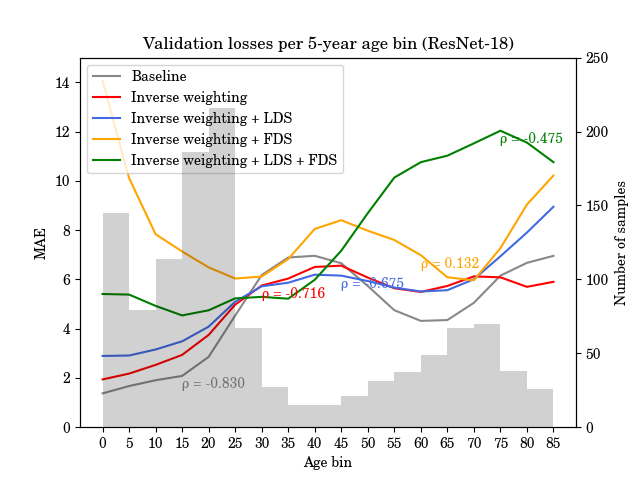
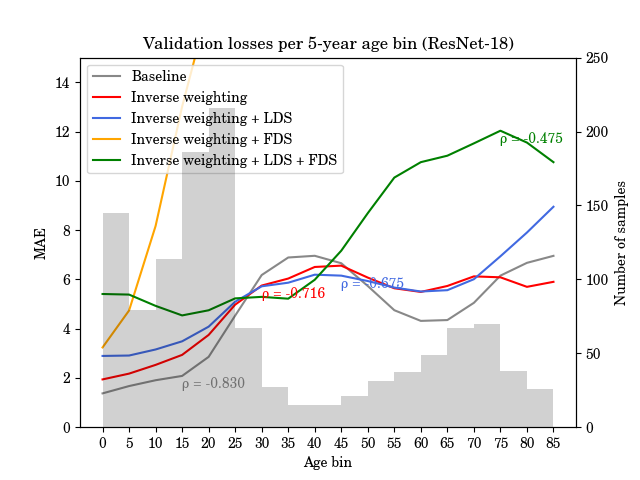
Fix issue with FDS (#5)
* wip

* wip

* wip: plotting code

* wip

* switch to logging.info

* wip

* cleanup

* delete code to save fds features for now

diff --git a/age_prediction/train.py b/age_prediction/train.py
@@ -2,6 +2,7 @@ import argparse
 from datetime import datetime
 import glob
 import json
+import logging
 import os
 import random
 import re
@@ -27,15 +28,7 @@ SPLITS_DIR = os.path.join(ROOT_DIR, "folderlist")
 START_TIME = datetime.now().strftime("%m/%d/%Y, %H:%M:%S")
 LOG_FILE = ''
 
-def log(message):
-    if LOG_FILE == '':
-        print(message)
-        return
-
-    os.makedirs(os.path.dirname(LOG_FILE), exist_ok=True)
-
-    with open(LOG_FILE, 'a+') as log_file:
-        log_file.write(f"{message}\n")
+print = logging.info
 
 def parse_options():
     parser = argparse.ArgumentParser()
@@ -93,10 +86,13 @@ def parse_options():
         os.remove(LOG_FILE)
     except FileNotFoundError:
         pass
+    os.makedirs(os.path.dirname(LOG_FILE), exist_ok=True)
+    logging.basicConfig(level=logging.DEBUG, filename=LOG_FILE, filemode="a+",
+                        format="%(asctime)-15s %(levelname)-8s %(message)s")
 
     for arg in vars(args):
-        log(f"{arg}: {getattr(args, arg)}")
-    log('='*20)
+        print(f"{arg}: {getattr(args, arg)}")
+    print('='*20)
     return args
 
 def load_samples(split_fnames, bin_width=1, min_bin_count=10, max_samples=None):
@@ -134,12 +130,12 @@ def load_samples(split_fnames, bin_width=1, min_bin_count=10, max_samples=None):
     return combined_df
 
 def resample(df, mode, undersamp_limit, oversamp_limit):
-    log("Resampling training data")
+    print("Resampling training data")
 
     bins = sorted(set(df['agebin']))
     bin_counts = {bin: sum(df['agebin'] == bin) for bin in bins}
     bin_ratios = {bin: count / df.shape[0] for bin, count in bin_counts.items()}
-    log(f"Bin counts: {bin_counts}")
+    print(f"Bin counts: {bin_counts}")
 
     if mode == 'none':
         pass
@@ -183,7 +179,7 @@ def resample(df, mode, undersamp_limit, oversamp_limit):
     else:
         raise Exception(f"Invalid sampling mode: {mode}")
 
-    log(f"Number of images in final training dataset: {df.shape[0]}")
+    print(f"Number of images in final training dataset: {df.shape[0]}")
     return df
 
 def setup_model(arch, device, checkpoint_file=None, fds=None):
@@ -226,11 +222,12 @@ def train(model, arch, optimizer, train_loader, device, epoch):
         if arch == 'sfcn':
             images = images.unsqueeze(1)
         if model.uses_fds:
-            age_preds, batch_encodings = model(images, targets=ages, epoch=epoch)
+            age_bins = torch.floor(ages)
+            age_preds, batch_encodings, _ = model(images, targets=age_bins, epoch=epoch)
             encodings.extend(batch_encodings.detach().cpu().numpy())
-            targets.extend(ages.cpu().numpy())
+            targets.extend(age_bins.cpu().numpy())
         else:
-            age_preds = model(images)
+            age_preds, _ = model(images)
         age_preds = age_preds.view(-1)
         loss = weighted_l1_loss(age_preds, ages, weights)
         loss.backward()
@@ -238,10 +235,10 @@ def train(model, arch, optimizer, train_loader, device, epoch):
 
         losses.append(loss.item())
         if batch_idx % 10 == 0:
-            log(f"Batch {batch_idx} loss {loss} mean loss {np.mean(losses)}")
+            print(f"Batch {batch_idx} loss {loss} mean loss {np.mean(losses)}")
         
     if model.uses_fds:
-        encodings, targets = torch.from_numpy(np.vstack(encodings)).cuda(), torch.from_numpy(np.hstack(targets)).cuda()
+        encodings, targets = torch.from_numpy(np.vstack(encodings)).to(device), torch.from_numpy(np.hstack(targets)).to(device)
         model.fds.update_last_epoch_stats(epoch)
         model.fds.update_running_stats(encodings, targets, epoch)
     
@@ -263,7 +260,8 @@ def validate(model, arch, val_loader, device):
             images, ages = images.to(device), ages.to(device)
             if arch == 'sfcn':
                 images = images.unsqueeze(1)
-            age_preds = model(images).view(-1)
+            age_preds, _ = model(images)
+            age_preds = age_preds.view(-1)
             loss = F.l1_loss(age_preds, ages, reduction='mean')
 
             losses.append(loss.item())
@@ -278,7 +276,7 @@ def main():
 
     opts = parse_options()
 
-    log(f"Starting at {START_TIME}")
+    print(f"Starting at {START_TIME}")
 
     checkpoint_dir = os.path.join(ROOT_DIR, "checkpoints", opts.eval or opts.job_id)
     results_dir = os.path.join(ROOT_DIR, "results", opts.job_id)
@@ -286,7 +284,7 @@ def main():
     os.makedirs(checkpoint_dir, exist_ok=True)
     os.makedirs(results_dir, exist_ok=True)
 
-    log("Setting up dataset")
+    print("Setting up dataset")
 
     split_fnames = glob.glob(f"{SPLITS_DIR}/nfold_imglist_all_nfold_*.list")
     assert len(split_fnames) == 5
@@ -303,10 +301,10 @@ def main():
 
     if opts.print_bin_counts:
         with pd.option_context('display.max_rows', None, 'display.max_columns', None):
-            log(df['agebin'].value_counts())
-            log(_train_df['agebin'].value_counts())
-            log(train_df['agebin'].value_counts())
-            log(val_df['agebin'].value_counts())
+            print(df['agebin'].value_counts())
+            print(_train_df['agebin'].value_counts())
+            print(train_df['agebin'].value_counts())
+            print(val_df['agebin'].value_counts())
         sys.exit(0)
 
     train_dataset = AgePredictionDataset(train_df, reweight=opts.reweight, lds=opts.lds, lds_kernel=opts.lds_kernel, lds_ks=opts.lds_ks, lds_sigma=opts.lds_sigma)
@@ -324,7 +322,7 @@ def main():
         cfg['val_counts'] = json.loads(val_df['agebin'].value_counts().to_json())
         json.dump(cfg, f, sort_keys=True, indent=4)
 
-    log("Setting up model")
+    print("Setting up model")
 
     device = torch.device('cpu' if opts.cpu else 'cuda')
     fds = None
@@ -346,7 +344,7 @@ def main():
     ## Training and evaluation
 
     if opts.eval is None:
-        log("Starting training process")
+        print("Starting training process")
 
         best_epoch = None
         best_val_loss = np.inf
@@ -357,11 +355,11 @@ def main():
             torch.save(model.state_dict(), f"{checkpoint_dir}/best_model.pth")
 
         for epoch in range(opts.n_epochs):
-            log(f"Epoch {epoch}/{opts.n_epochs}")
+            print(f"Epoch {epoch}/{opts.n_epochs}")
             train_loss = train(model, opts.arch, optimizer, train_loader, device, epoch)
-            log(f"Mean training loss: {train_loss}")
+            print(f"Mean training loss: {train_loss}")
             val_loss, _ = validate(model, opts.arch, val_loader, device)
-            log(f"Mean validation loss: {val_loss}")
+            print(f"Mean validation loss: {val_loss}")
             scheduler.step()
 
             train_losses.append(train_loss)
@@ -374,9 +372,9 @@ def main():
                 best_epoch = epoch
                 best_val_loss = val_loss
         
-        log(f"Best model had validation loss of {best_val_loss}, occurred at epoch {best_epoch}")
+        print(f"Best model had validation loss of {best_val_loss}, occurred at epoch {best_epoch}")
     
-    log("Evaluating best model on val dataset")
+    print("Evaluating best model on val dataset")
    
     checkpoint = torch.load(f"{checkpoint_dir}/best_model.pth", map_location=device)
     model.load_state_dict(checkpoint)
@@ -385,7 +383,7 @@ def main():
     
     ## Save results so we can plot them later
 
-    log("Saving results")
+    print("Saving results")
     
     if opts.eval is None:
         np.savetxt(f"{results_dir}/train_losses_over_time.txt", train_losses)

diff --git a/age_prediction/plot_results.py b/age_prediction/plot_results.py
@@ -51,6 +51,14 @@ def load_results():
         results['val_preds'] = val_preds
         results['config'] = cfg
         all_results[job_desc] = results
+
+        # FDS feature results
+        if os.path.exists(f"{RESULTS_DIR}/{job_id}/train_df.csv"):
+            results['train_df'] = pd.read_csv(f"{RESULTS_DIR}/{job_id}/train_df.csv")
+            results['train_features_before_smoothing'] = pd.read_csv(f"{RESULTS_DIR}/{job_id}/train_features_before_smoothing.csv")
+            results['train_features_after_smoothing'] = pd.read_csv(f"{RESULTS_DIR}/{job_id}/train_features_after_smoothing.csv")
+            results['val_df'] = pd.read_csv(f"{RESULTS_DIR}/{job_id}/val_df.csv")
+            results['val_features'] = pd.read_csv(f"{RESULTS_DIR}/{job_id}/val_features.csv")
     
     return all_results
 
@@ -208,6 +216,37 @@ def main():
         plt.ylabel("Number of samples")
         plt.savefig(os.path.join(FIGURES_DIR, f"bin_counts_{dataset}.png"))
         plt.clf()
+
+    ## Plot the mean of each feature dim for FDS jobs
+    for results in all_results.values():
+        job_id = results['config']['job_id']
+
+        if 'train_df' in results:
+            train_features_before_smoothing = results['train_features_before_smoothing']
+            train_features_after_smoothing = results['train_features_after_smoothing']
+            val_features = results['val_features']
+            train_df = results['train_df']
+            val_df = results['val_df']
+
+            for dim in range(20):
+                colname = f'feat{dim}'
+                bins = np.arange(18)
+                display_bins = [5*bin for bin in bins]
+                featvals1 = train_features_before_smoothing[colname]
+                y1 = [np.mean(featvals1[(train_df['age'] // 5) == bin]) for bin in bins]
+                featvals2 = train_features_after_smoothing[colname]
+                y2 = [np.mean(featvals2[(train_df['age'] // 5) == bin]) for bin in bins]
+                featvals3 = val_features[colname]
+                y3 = [np.mean(featvals3[(val_df['age'] // 5) == bin]) for bin in bins]
+
+                plt.plot(display_bins, y1, label='train, before smoothing')
+                plt.plot(display_bins, y2, label='train, after smoothing')
+                plt.plot(display_bins, y3, label='validation')
+                plt.title(f"Mean values for feature dim = {dim} per bin")
+                plt.xlabel("Age bin")
+                plt.ylabel("Mean value")
+                plt.savefig(os.path.join(FIGURES_DIR, f"mean_vals_{colname}_{job_id}.png"))
+                plt.clf()
 
     print("Done")
 

diff --git a/age_prediction/fds.py b/age_prediction/fds.py
@@ -49,7 +49,8 @@ class FDS(nn.Module):
             kernel_window = list(map(laplace, np.arange(-half_ks, half_ks + 1))) / sum(map(laplace, np.arange(-half_ks, half_ks + 1)))
 
         print(f'Using FDS: [{kernel.upper()}] ({ks}/{sigma})')
-        return torch.tensor(kernel_window, dtype=torch.float64).cuda()
+        res = torch.tensor(kernel_window, dtype=torch.float64)
+        return res.cuda() if torch.cuda.is_available() else res
 
     def _update_last_epoch_stats(self):
         self.running_mean_last_epoch = self.running_mean
@@ -111,6 +112,7 @@ class FDS(nn.Module):
                 (1 - factor) * curr_var + factor * self.running_var[int(label - self.bucket_start)]
 
         print(f"Updated running statistics with Epoch [{epoch}] features!")
+
 
     def smooth(self, features, labels, epoch):
         if epoch < self.start_smooth:

diff --git a/age_prediction/resnet.py b/age_prediction/resnet.py
@@ -1,6 +1,10 @@
+import logging
+
 import torch.nn as nn
 
 from .fds import FDS
+
+print = logging.info
 
 def conv3x3(in_planes, out_planes, stride=1):
     """3x3 convolution with padding"""
@@ -102,9 +106,9 @@ class ResNet(nn.Module):
         x = self.linear(encoding_s)
 
         if self.training and self.uses_fds:
-            return x, encoding
+            return x, encoding, encoding_s
         else:
-            return x
+            return x, encoding
 
 def resnet18(**kwargs):
     return ResNet(BasicBlock, [2, 2, 2, 2], **kwargs)

diff --git a/age_prediction/sfcn.py b/age_prediction/sfcn.py
@@ -1,7 +1,11 @@
+import logging
+
 import torch
 from torch import nn
 
 from .fds import FDS
+
+print = logging.info
 
 class ConvBlock(nn.Module):
     def __init__(self, in_channels, out_channels, kernel_size=3, padding=1):
@@ -83,6 +87,6 @@ class SFCN(nn.Module):
         x = self.classifier(encoding_s)
 
         if self.training and self.uses_fds:
-            return x, encoding
+            return x, encoding, encoding_s
         else:
-            return x
+            return x, encoding

diff --git a/age_prediction/vgg.py b/age_prediction/vgg.py
@@ -1,7 +1,11 @@
+import logging
+
 import torch
 from torch import nn
 
 from .fds import FDS
+
+print = logging.info
 
 class ConvBlock(nn.Module):
     def __init__(self, in_channels, out_channels, kernel_size=3, padding=1):
@@ -88,6 +92,6 @@ class VGG8(nn.Module):
         x = self.classifier(encoding_s)
 
         if self.training and self.uses_fds:
-            return x, encoding
+            return x, encoding, encoding_s
         else:
-            return x
+            return x, encoding
